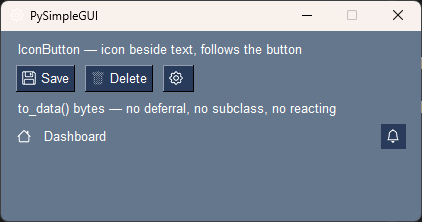
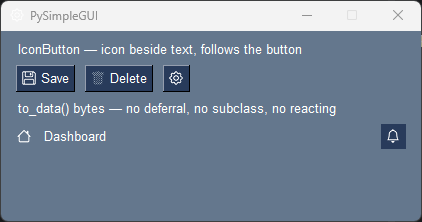
Fix the CI failures, and correct what they exposed
The Linux test failure was mine, not the code's. `test_the_tk_icon_follows_the_widgets_own_state` asserted that hovering a tk.Button leaves its icon alone, which is true on win32 and false on x11: button.tcl defines tk::ButtonEnter once per windowing system, and the x11 body sets `-state active` on entry outright — "on unix the state is active just with mouse-over", in Tk's own comment. The implementation was already right, because it reads the widget's state rather than inferring one from the pointer. The test now asserts that mapping instead of one platform's Tk.

That correction propagates. The docstring and the warning both claimed a tk.Button has no hover state at all; on x11 it does, and the reason `hover` is still unreachable there is that hover and press are the same state. Both now say so.

The docs build failed because autodoc has to import IconButton, which subclasses PySimpleGUI's own Button. PySimpleGUI is added to docs/requirements.txt, with the reason, so Read the Docs can build it too.

An icon-only button was showing compound="left", which reserves room for a label that is not there — measured at 96 px against 26 for an empty-text ttk button. It stays a user setting, since tk and ttk accept different values for image-only, but the demo and the docs now show it correctly and the caveat is stated.
[…]

diff --git a/tests/test_extensions.py b/tests/test_extensions.py
@@ -172,8 +172,14 @@ class TestIconButton:
             button = IconButton("Go", key="-B-", use_ttk_buttons=use_ttk, **kwargs)
             try:
                 window = sg.Window("t", [[button]], finalize=True, location=(50, 50))
-            except Exception as exc:  # pragma: no cover - headless
-                pytest.skip(f"no display: {exc}")
+            except Exception as exc:  # pragma: no cover - environment, not the code
+                # Two different causes, and calling both "no display" would
+                # misreport one of them. Either there is genuinely no display,
+                # or this is Tk 8.6 failing to build a second interpreter in
+                # one process -- a known limitation `CLAUDE.md` records, which
+                # surfaces as `invalid command name "tcl_findLibrary"` and
+                # depends on test ordering rather than on anything here.
+                pytest.skip(f"could not create a Tk window: {type(exc).__name__}: {exc}")
             windows.append(window)
             return button, window
 
@@ -245,24 +251,42 @@ class TestIconButton:
     def test_the_tk_icon_follows_the_widgets_own_state(self, build):
         """Not inferred from the pointer -- read back off `-state`.
 
-        Tk's `active` is pressed, not hover: `tk::ButtonEnter` sets it only
-        while button 1 is already down. So entering must change nothing.
+        The invariant is "the image matches whatever Tk says the state is",
+        and that is deliberately **not** the same as "hover changes nothing".
+        `button.tcl` defines `tk::ButtonEnter` once per windowing system: win32
+        and aqua set `-state active` only while button 1 is already down, while
+        x11 sets it on entry outright -- "on unix the state is active just with
+        mouse-over", in Tk's own comment.
+
+        An earlier version of this test asserted the win32 behavior as
+        universal and failed on Linux against code that was doing exactly the
+        right thing. Assert the mapping, not one platform's Tk.
         """
+        from tkinter_icons.extensions.psg import _TK_STATE_KEYS
+
         button, window = build(use_ttk_buttons=False, reactive_states={"pressed": "#0000ff"})
         widget = button.Widget
 
-        def current():
+        def settle():
             window.TKroot.update_idletasks()
             window.TKroot.update()
-            return str(widget.cget("image"))
+            return str(widget.cget("state")), str(widget.cget("image"))
 
-        rest = current()
-        widget.event_generate("<Enter>", x=5, y=5)
-        assert current() == rest, "hover must not change a tk.Button's icon"
+        def expected(state):
+            return str(button._state_images.get(_TK_STATE_KEYS.get(state, ""),
+                                                button._state_images[""]))
 
+        for event in ("<Enter>", "<ButtonPress-1>", "<ButtonRelease-1>", "<Leave>"):
+            widget.event_generate(event, x=5, y=5)
+            state, image = settle()
+            assert image == expected(state), f"after {event}: -state={state} but image did not match"
+
+        # Press reaches `active` on every platform, so the pressed image is
+        # genuinely exercised rather than only the resting one.
         widget.event_generate("<ButtonPress-1>", x=5, y=5)
-        assert str(widget.cget("state")) == "active"
-        assert current() == str(button._state_images["pressed"])
+        state, image = settle()
+        assert state == "active"
+        assert image == str(button._state_images["pressed"])
 
     def test_disabling_swaps_the_tk_image(self, build):
         """A tk.Button has no disabled image, only disabledforeground."""

diff --git a/packages/tkinter-icons/src/tkinter_icons/extensions/psg.py b/packages/tkinter-icons/src/tkinter_icons/extensions/psg.py
@@ -149,7 +149,12 @@ def _build_icon_button(sg) -> type:
                 ``False`` to draw the icon exactly as given, or a mapping of
                 state name to either a color or a ``{"name": ..., "color": ...}``
                 dict, which can swap the glyph as well as tint it.
-            compound: Where the icon sits relative to the text.
+            compound: Where the icon sits relative to the text, as Tk means it.
+                Pass ``"none"`` for a button with **no text**: the default
+                ``"left"`` reserves a text slot, and on ttk that is not free —
+                an empty-text button asks for 96 px against 26. ``ttk`` also
+                accepts ``"image"``, which ``tk`` does not, so ``"none"`` is
+                the value that means image-only on both.
             kwargs: Further keyword arguments for ``sg.Button``.
 
         State names describe the interaction — ``hover``, ``pressed``,
@@ -304,12 +309,23 @@ def _build_icon_button(sg) -> type:
             class bindings have run. That is correct on every platform by
             construction, whatever each one does.
 
-            Which matters, because Tk's ``active`` is not hover:
-            ``tk::ButtonEnter`` sets ``-state active`` only when the mouse
-            button is already down. On win32 the state therefore changes on
-            *press*, and ``<Enter>`` alone leaves it ``normal``. Hover is drawn
-            with ``-overrelief``, which carries no image — so ``hover`` cannot
-            be honored here at all.
+            Which matters, because Tk's ``active`` does not mean what ttk's
+            does, and **it does not mean the same thing on every platform**.
+            ``button.tcl`` defines ``tk::ButtonEnter`` three times, once per
+            windowing system:
+
+            * **win32 and aqua** set ``-state active`` only when the mouse
+              button is already down, so the state changes on *press* and
+              ``<Enter>`` alone leaves it ``normal``.
+            * **x11** sets it on entry unconditionally — "on unix the state is
+              active just with mouse-over", in Tk's own comment — so there the
+              one state covers hover *and* press.
+
+            Reading the widget rather than the pointer is what makes this
+            correct anywhere: whichever Tk does, the icon follows. What stays
+            true everywhere is that ``hover`` is not separately reachable — on
+            win32 because no hover state exists, on x11 because hover is
+            indistinguishable from press.
             """
             # A tk.Button measures -width/-height in characters and lines while
             # it shows text alone, and in *pixels* once it also shows an image.
@@ -322,8 +338,10 @@ def _build_icon_button(sg) -> type:
             if isinstance(self._reactive_states, Mapping) and "hover" in self._reactive_states:
                 warnings.warn(
                     f"{type(self).__name__}(key={self.Key!r}) was given a 'hover' state, but a "
-                    f"tk.Button has no hover state that can carry an image, so it is ignored. "
-                    f"Pass use_ttk_buttons=True to get one, or use 'pressed'.",
+                    f"tk.Button cannot carry a separate hover image, so it is ignored — on "
+                    f"Windows and macOS because it has no hover state at all, on X11 because "
+                    f"hover and press are both '-state active' there. Pass use_ttk_buttons=True "
+                    f"for a real hover, or use 'pressed'.",
                     stacklevel=2,
                 )
 

diff --git a/.github/scripts/capture_screenshots.py b/.github/scripts/capture_screenshots.py
@@ -249,7 +249,10 @@ def pysimplegui(out: Path) -> None:
                                  "disabled": {"name": "trash-fill", "color": "#7c8a99"}},
                 key="-DELETE-",
             ),
-            IconButton("", icon=BootstrapIcon("gear", 16, white), key="-PREFS-"),
+            # compound="none" because there is no text: the default reserves
+            # room for a label that is not there, ~70 px of it on a ttk button.
+            IconButton("", icon=BootstrapIcon("gear", 16, white), compound="none",
+                       key="-PREFS-"),
         ],
         [sg.Text("to_data() bytes — no deferral, no subclass, no reacting")],
         [

diff --git a/docs/integrations/pysimplegui.rst b/docs/integrations/pysimplegui.rst
@@ -1,48 +1,40 @@
 PySimpleGUI
 ===========
 
-`PySimpleGUI <https://github.com/PySimpleGUI/PySimpleGUI>`_ builds a window from a layout you write as a list of lists. That declarative style is the whole reason it needs an integration: constructing ``sg.Button`` creates no Tk widget at all, so at the moment you write your layout there is no widget to put an icon on, and no Tk interpreter to render one with.
-
-There are two ways in, and they are not interchangeable.
+`PySimpleGUI <https://github.com/PySimpleGUI/PySimpleGUI>`_ builds a window from a layout you write as a list of lists. Because the layout is written before any window exists, there is nothing to attach an icon to at the point you write it — so icons arrive two ways:
 
 .. grid:: 1 2 2 2
    :gutter: 3
 
    .. grid-item-card:: :class:`~tkinter_icons.extensions.psg.IconButton`
 
-      For an icon **beside text**, or one that has to react to hover, press and disable. Applies itself once the window is built.
+      For an icon **beside text**, or one that should react to hover, press and disable.
 
    .. grid-item-card:: :meth:`Icon.to_data <tkinter_icons.Icon.to_data>`
 
-      For anything that takes an encoded image — ``sg.Image``, ``sg.Tab``, the window icon, icon-only buttons. Bytes, so no deferral and no subclass.
+      For anything that takes an image: ``sg.Image``, ``sg.Tab``, the window icon, icon-only buttons.
 
 .. figure:: ../assets/pysimplegui_icons.png
    :alt: A PySimpleGUI window with icon buttons and image elements, all drawn from icon fonts.
    :align: center
 
-   Both bridges in one window. The top row is :class:`~tkinter_icons.extensions.psg.IconButton` — Delete is shown disabled, and swaps to a filled glyph to say so. The bottom row is ``to_data()`` bytes on an ``sg.Image`` and an icon-only ``sg.Button``.
+   The top row is :class:`~tkinter_icons.extensions.psg.IconButton`, with Delete shown disabled. The bottom row is ``to_data()`` bytes on an ``sg.Image`` and an icon-only ``sg.Button``.
 
 Installing
 ----------
 
-PySimpleGUI is **not** a dependency of ``tkinter-icons`` and nothing from it is redistributed here. Install it yourself, alongside whichever icon packs you want:
+PySimpleGUI is not a dependency of ``tkinter-icons`` and nothing from it is bundled here. Install it yourself:
 
 .. code-block:: shell
 
    pip install "tkinter-icons[bootstrap]" PySimpleGUI
 
-Either flavor works — PySimpleGUI, LGPL v3 as of version 6, or `FreeSimpleGUI <https://github.com/spyoungtech/FreeSimpleGUI>`_, the LGPL fork of the 4.x line. The integration uses only the parts they share.
+`FreeSimpleGUI <https://github.com/spyoungtech/FreeSimpleGUI>`_ works too. **Import your GUI framework first**, so the integration binds to the one your layout uses:
 
-.. important::
+.. code-block:: python
 
-   **Import your GUI framework before this integration.** :class:`~tkinter_icons.extensions.psg.IconButton` subclasses the flavor's own ``Button``, so it has to know which one you are using. It looks at what you have already imported, which is why import order matters when both are installed:
-
-   .. code-block:: python
-
-      import PySimpleGUI as sg                             # first
-      from tkinter_icons.extensions.psg import IconButton  # then this
-
-   Getting it backwards is caught rather than left to produce something strange later: building a layout that mixes the two raises and names both.
+   import PySimpleGUI as sg                             # first
+   from tkinter_icons.extensions.psg import IconButton  # then this
 
 Buttons
 -------
@@ -54,25 +46,27 @@ Buttons
    from tkinter_icons import BootstrapIcon
    from tkinter_icons.extensions.psg import IconButton
 
+   white = "#FFFFFF"
+
    layout = [
-       [IconButton("Save", icon=BootstrapIcon("floppy", 16, "#FFFFFF"), key="-SAVE-")],
-       [IconButton("", icon=BootstrapIcon("gear", 16, "#FFFFFF"), key="-PREFS-")],
+       [IconButton("Save", icon=BootstrapIcon("floppy", 16, white), key="-SAVE-")],
+       [IconButton("", icon=BootstrapIcon("gear", 16, white), compound="none", key="-PREFS-")],
    ]
 
    window = sg.Window("Editor", layout, finalize=True)
 
-Building the icon inline costs nothing — an :class:`~tkinter_icons.Icon` renders on demand, not on construction — and the icon is applied for you when the window is built, before it is drawn.
+Give the icon the pixel size you want it drawn at, and let the button take care of itself — the icon is applied when the window is built, before it is shown.
 
 Reacting to the button
 ----------------------
 
-By default the icon follows the button's own colors, so it greys out with the label when the button is disabled and picks up whatever colors your theme gave it. Pass ``reactive_states`` to say more:
+By default the icon follows the button's own colors, so it greys out along with the label when the button is disabled. Pass ``reactive_states`` to say more:
 
 .. code-block:: python
 
    IconButton(
        "Delete",
-       icon=BootstrapIcon("trash", 16, "#FFFFFF"),
+       icon=BootstrapIcon("trash", 16, white),
        reactive_states={
            "hover": "#f0918d",
            "pressed": "#d9534f",
@@ -82,71 +76,27 @@ By default the icon follows the button's own colors, so it greys out with the la
        use_ttk_buttons=True,
    )
 
-A state maps to a color, or to a dict that can swap the glyph as well — the disabled state above changes to the filled trash so the button reads differently even in grey. Pass ``reactive_states=False`` to draw the icon exactly as you constructed it and ignore the button entirely.
+Each state takes a color, or a dict that can swap the glyph too — above, the disabled state changes to the filled trash. ``reactive_states=False`` draws the icon exactly as you built it and ignores the button.
 
-.. _psg-states:
-
-The states are named for the interaction
-~~~~~~~~~~~~~~~~~~~~~~~~~~~~~~~~~~~~~~~~
-
-``hover``, ``pressed`` and ``disabled`` describe what the user is doing, not what either toolkit calls it — and the two toolkits disagree, which is why the names could not simply be borrowed. In ttk, ``active`` means the pointer is over the widget. On a plain ``tk.Button``, ``active`` means *pressed*: Tk sets that state only while the mouse button is already down.
-
-That difference is not cosmetic, because a ``tk.Button`` has **no hover state that can carry an image** at all. Hover is drawn there with ``-overrelief``, and a relief is not a picture. So:
-
-.. list-table::
-   :header-rows: 1
-   :widths: 20 40 40
-
-   * - State
-     - ttk button
-     - tk button
-   * - ``hover``
-     - the pointer is over the button
-     - **unavailable** — asking for it warns
-   * - ``pressed``
-     - the button is held down
-     - the button is held down
-   * - ``disabled``
-     - the button is disabled
-     - the button is disabled
-
-Pass ``use_ttk_buttons=True`` — on the button or on the window — to get all three. PySimpleGUI defaults to ``tk`` buttons on Windows and Linux.
+The three states are ``hover``, ``pressed`` and ``disabled``. **``hover`` needs ``use_ttk_buttons=True``**; a plain ``tk`` button cannot carry a separate hover image, and asking for one there warns and is ignored. PySimpleGUI defaults to ``tk`` buttons on Windows and Linux.
 
 Changing the icon later
 -----------------------
 
-``update()`` takes everything the constructor does, so one element can carry two glyphs:
+``update()`` takes what the constructor takes, so one button can carry two glyphs:
 
 .. code-block:: python
 
-   playing = False
-   while True:
-       event, values = window.read()
-       if event == sg.WINDOW_CLOSED:
-           break
-       if event == "-PLAY-":
-           playing = not playing
-           name = "pause-fill" if playing else "play-fill"
-           window["-PLAY-"].update(icon=BootstrapIcon(name, 16, "#FFFFFF"))
+   window["-PLAY-"].update(icon=BootstrapIcon("pause-fill", 16, white))
 
-``update(compound=...)`` moves the icon relative to the text, and ``update(reactive_states=...)`` changes the state behavior. The ordinary PySimpleGUI arguments work as they always did, and two of them are followed automatically: ``update(disabled=True)`` swaps to the disabled glyph, and ``update(button_color=...)`` re-tints the icon to match the new colors.
-
-.. note::
-
-   ``sg.theme()`` is **not** followed, because PySimpleGUI does not follow it either — a theme change affects only windows built afterward, and the usual answer is to close the window and build it again. A new window gets correctly colored icons automatically. An icon that chased ``sg.theme()`` would react to something the button under it ignores.
+``compound`` and ``reactive_states`` can be updated the same way. The ordinary PySimpleGUI arguments work as they always did, and the icon keeps up with two of them by itself: ``update(disabled=True)`` switches to the disabled glyph, and ``update(button_color=...)`` re-tints the icon to match.
 
 Everything that is not a button
 -------------------------------
 
-Most places PySimpleGUI accepts an image, it wants **bytes**. Build the icon exactly as you would for a button and ask it for its data — :meth:`~tkinter_icons.Icon.to_data` needs no Tk root, so it can be called while you are still writing the layout:
+Elsewhere PySimpleGUI wants image **bytes**. Build the icon the same way and ask for its data:
 
 .. code-block:: python
-
-   import PySimpleGUI as sg
-
-   from tkinter_icons import BootstrapIcon
-
-   white = "#FFFFFF"
 
    layout = [
        [sg.Image(data=BootstrapIcon("house", 16, white).to_data()), sg.Text("Dashboard")],
@@ -162,27 +112,56 @@ Most places PySimpleGUI accepts an image, it wants **bytes**. Build the icon exa
        icon=BootstrapIcon("gear", 32, white).to_data(),
    )
 
-That is the same icon you would hand to :class:`~tkinter_icons.extensions.psg.IconButton`, so there is one idiom on the page rather than two — build an icon, then use it. Constructing one renders nothing until you ask, so it costs no more than the classmethod does.
-
-The same bytes work in ``update()`` at runtime — ``window["-IMG-"].update(data=...)``.
+The same bytes work at runtime — ``window["-IMG-"].update(data=...)``.
 
 .. tip::
 
-   :meth:`Icon.render_data <tkinter_icons.Icon.render_data>` is the same thing without an instance — ``BootstrapIcon.render_data("house", 16, white)``. Reach for it in library code, or when you want to name an icon set explicitly, which the constructor cannot do.
+   :meth:`Icon.render_data <tkinter_icons.Icon.render_data>` does the same without an instance: ``BootstrapIcon.render_data("house", 16, white)``.
 
-.. warning::
+Tabs
+~~~~
 
-   ``image_data`` on an ``sg.Button`` is **not** a substitute for :class:`~tkinter_icons.extensions.psg.IconButton`. PySimpleGUI centers the image and sizes the button to it, so any text you also set is drawn *on top of* the icon rather than beside it. Use ``image_data`` for icon-only buttons, and ``IconButton`` when there is a label.
+A tab icon is a fixed picture — it will not change when the tab is selected. To mark the current tab, swap it yourself when the selection changes:
 
-   Bytes are also a snapshot: nothing about them follows the button's state or colors. That is exactly why both bridges exist.
+.. code-block:: python
 
-Sizing
-------
+   import tkinter as tk
 
-Give the icon the pixel size you want it drawn at — ``BootstrapIcon("floppy", 16)``, not the button's text size. Two things are worth knowing:
+   tabs = sg.TabGroup([[
+       sg.Tab("Home", [[sg.Text("...")]], image_source=BootstrapIcon("house", 16, white).to_data()),
+       sg.Tab("Alerts", [[sg.Text("...")]], image_source=BootstrapIcon("bell", 16, white).to_data()),
+   ]], key="-TABS-", enable_events=True)
 
-* On a ``tk`` button, an explicit ``size=`` is not honored once an icon is attached. Tk measures a button's width and height in characters while it shows text alone and in **pixels** once it also shows an image, so the size PySimpleGUI set would be reinterpreted and collapse the button. The button is auto-sized instead. ``ttk`` has no such reinterpretation.
-* Icons are snapped up to an even pixel size, so ``size=15`` draws at 16. See :doc:`../user-guide/sizing-and-quality`.
+   window = sg.Window("App", [[tabs]], finalize=True)
+
+   # Keep these alive: the widget stores only Tk's name for an image.
+   images = {
+       (0, False): tk.PhotoImage(data=BootstrapIcon("house", 16, white).to_data()),
+       (0, True): tk.PhotoImage(data=BootstrapIcon("house-fill", 16, "#FFD166").to_data()),
+       (1, False): tk.PhotoImage(data=BootstrapIcon("bell", 16, white).to_data()),
+       (1, True): tk.PhotoImage(data=BootstrapIcon("bell-fill", 16, "#FFD166").to_data()),
+   }
+
+   while True:
+       event, values = window.read()
+       if event == sg.WINDOW_CLOSED:
+           break
+       if event == "-TABS-":
+           notebook = window["-TABS-"].Widget
+           current = notebook.index("current")
+           for index in range(notebook.index("end")):
+               notebook.tab(index, image=images[(index, index == current)])
+
+Caveats
+-------
+
+**Set** ``compound="none"`` **on a button with no text.** The default, ``"left"``, reserves room for a label that is not there — on a ttk button that is around 70 px of empty space.
+
+**``image_data`` on a Button is not a substitute for** :class:`~tkinter_icons.extensions.psg.IconButton`. PySimpleGUI centers the image and sizes the button to it, so any text is drawn *on top of* the icon. Use it for icon-only buttons; use ``IconButton`` when there is a label. Bytes also never react to state or color — that is the difference between the two.
+
+**An explicit** ``size=`` **is not honored on a tk icon button.** Tk measures a button in characters while it shows text alone and in pixels once it also shows an image, so the button is auto-sized instead. ``ttk`` buttons are unaffected.
+
+**``sg.theme()`` does not change a window that already exists**, in PySimpleGUI or here. Build the window after setting the theme, and its icons will be colored to match.
 
 .. versionadded:: 5.1.0
    ``tkinter_icons.extensions.psg``.
